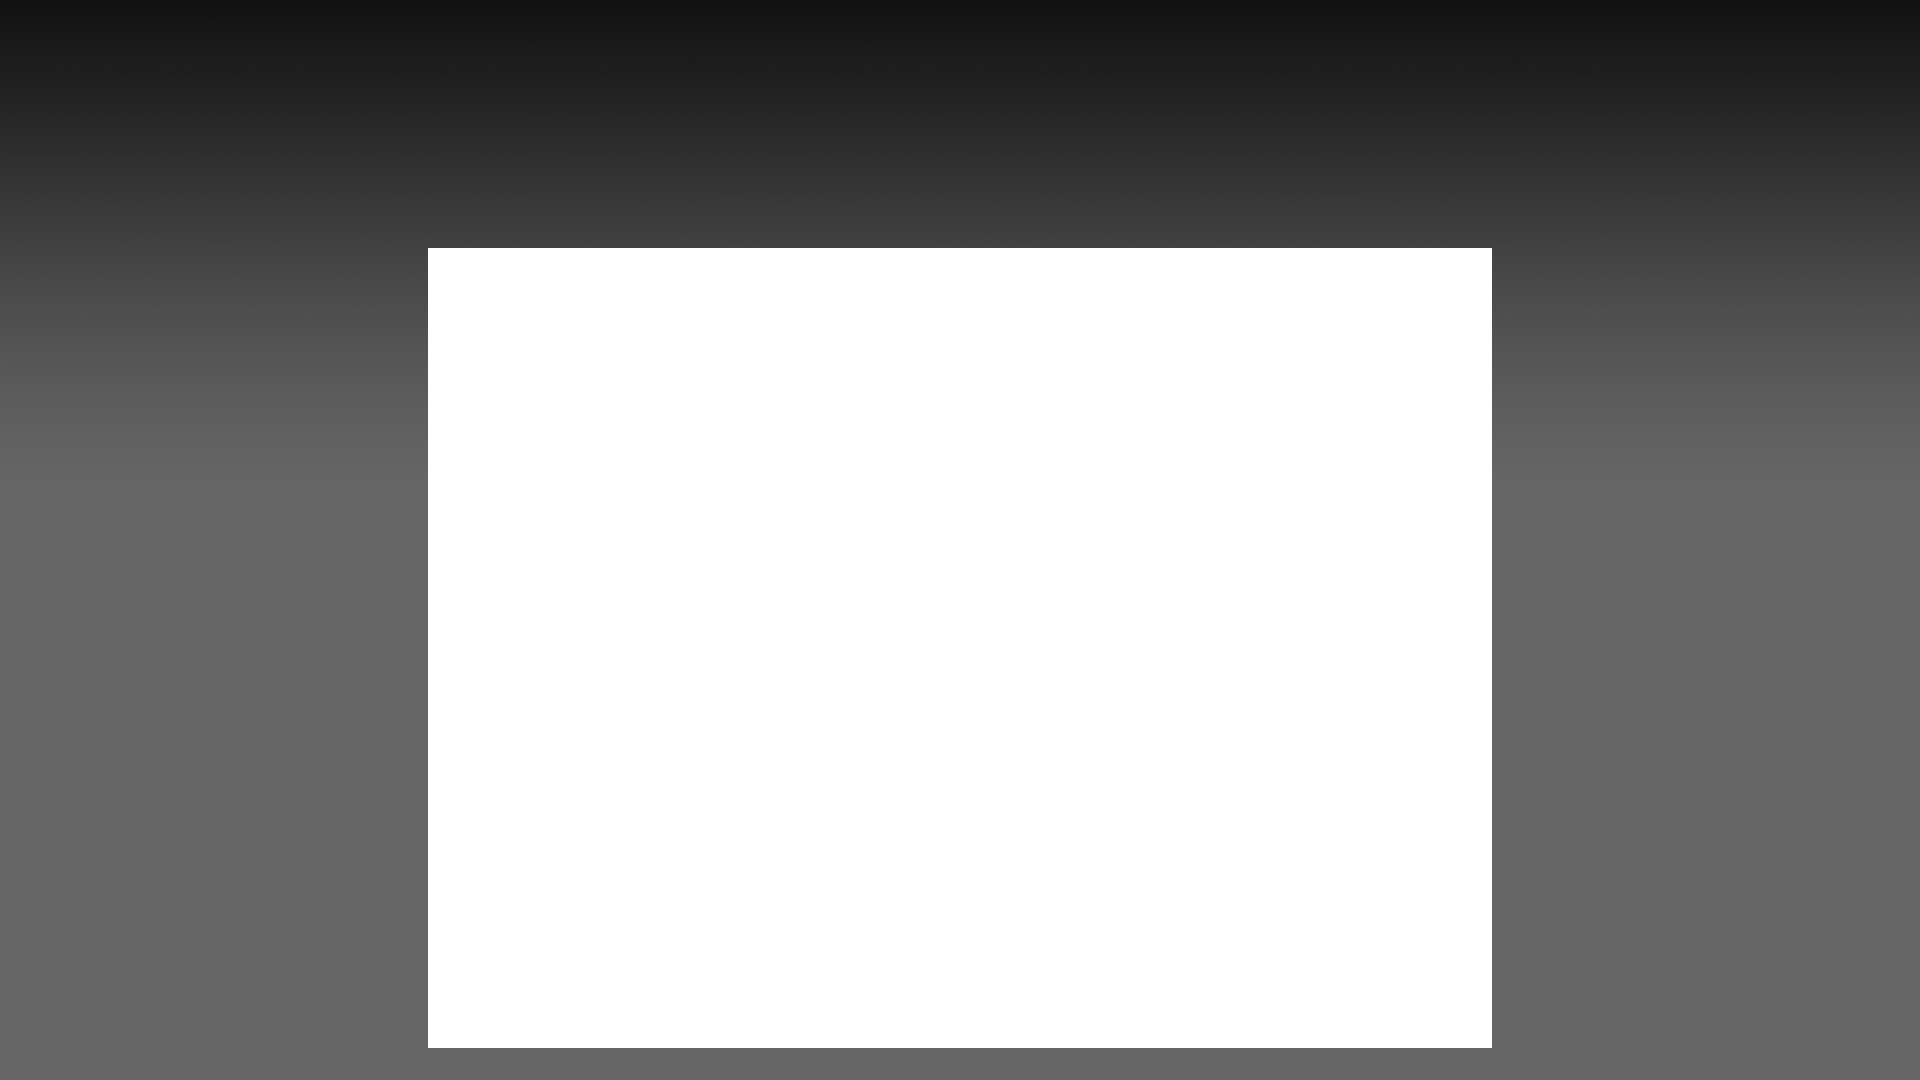
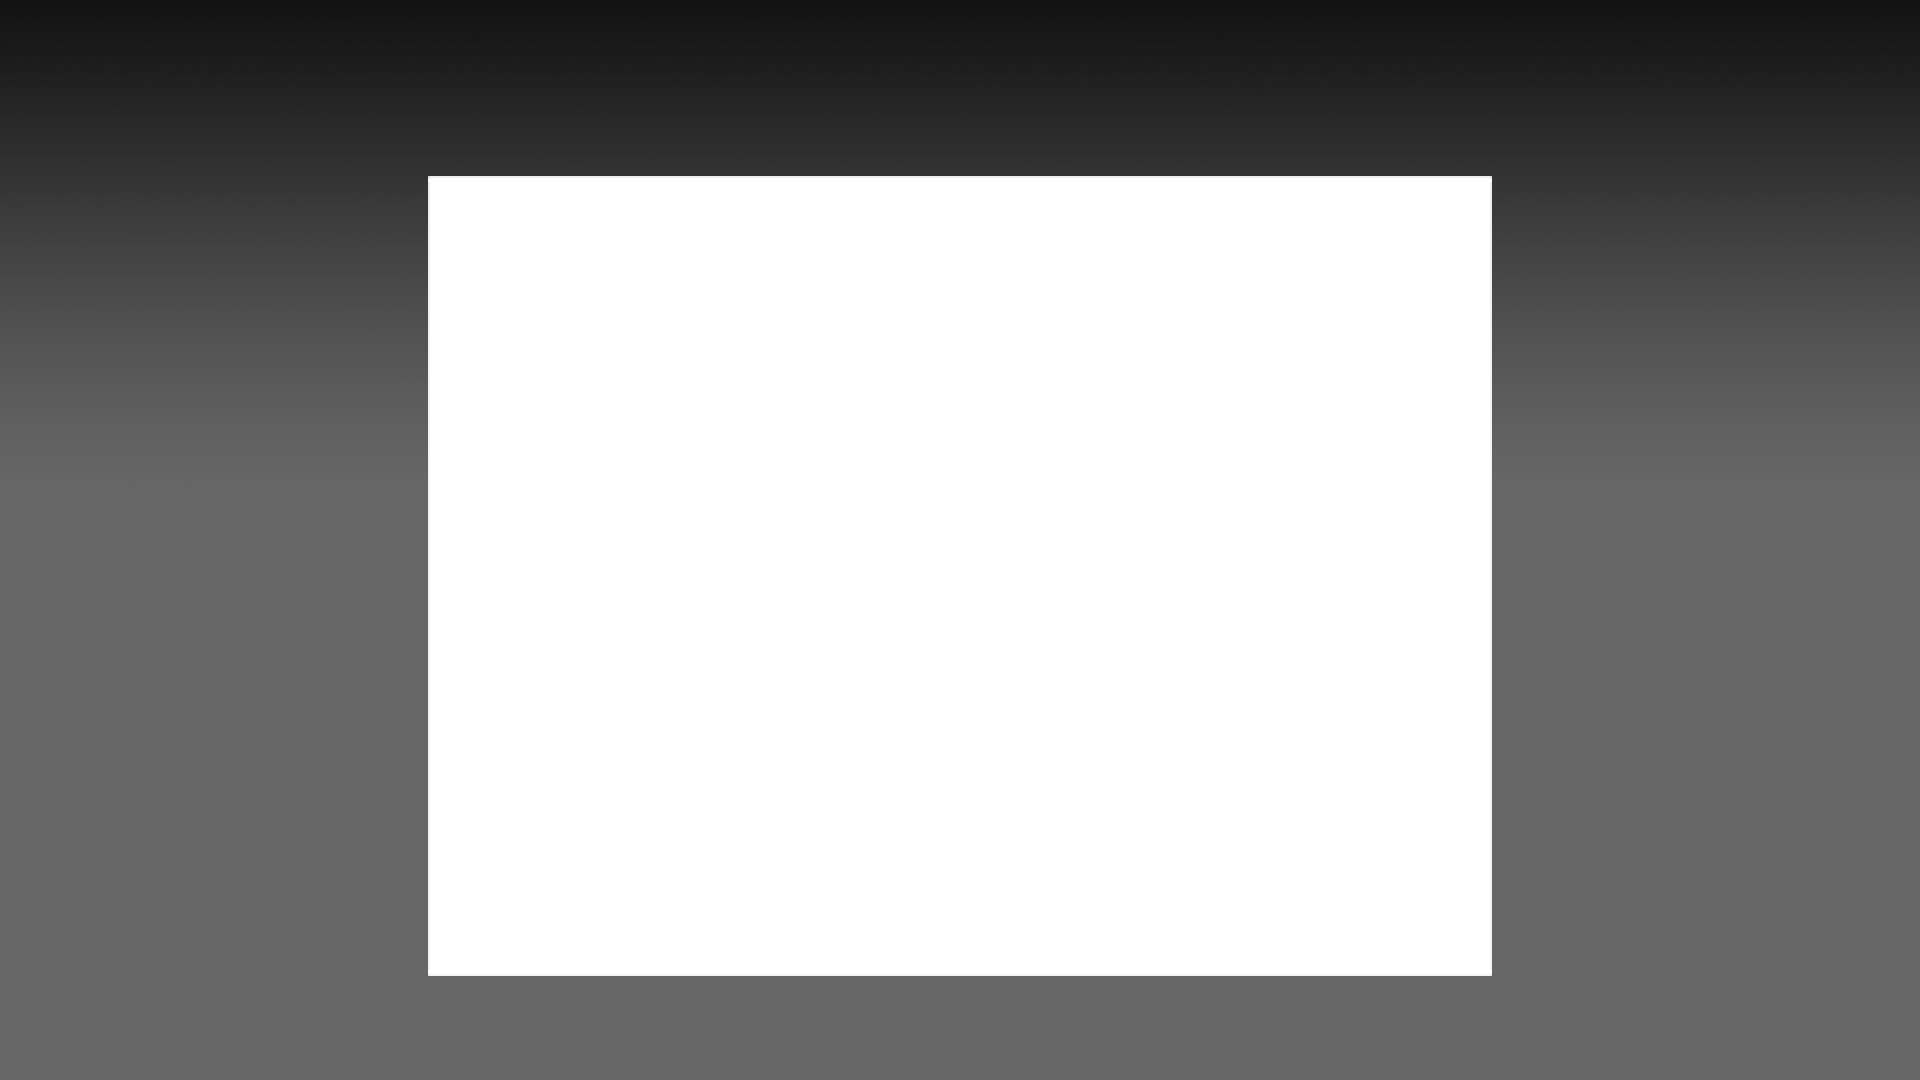
Update: 카메라 위치 조정

Changed region(s): [[0.2188, 0.8861, 0.7812, 0.9778], [0.2188, 0.1528, 0.7812, 0.2444]]

diff --git a/src/client/index.ts b/src/client/index.ts
@@ -89,6 +89,8 @@ baseContainer.addChild(PIXI.Sprite.from('./assets/splashes/10.png'));
 
 baseContainer.addChild(createBlurOverlay());
 
+baseContainer.addChild(PIXI.Sprite.from('./assets/backgrounds/cameraUI.png'));
+
 baseContainer.addChild(new BanViewer());
 
 baseContainer.addChild(new BanPickModal());
